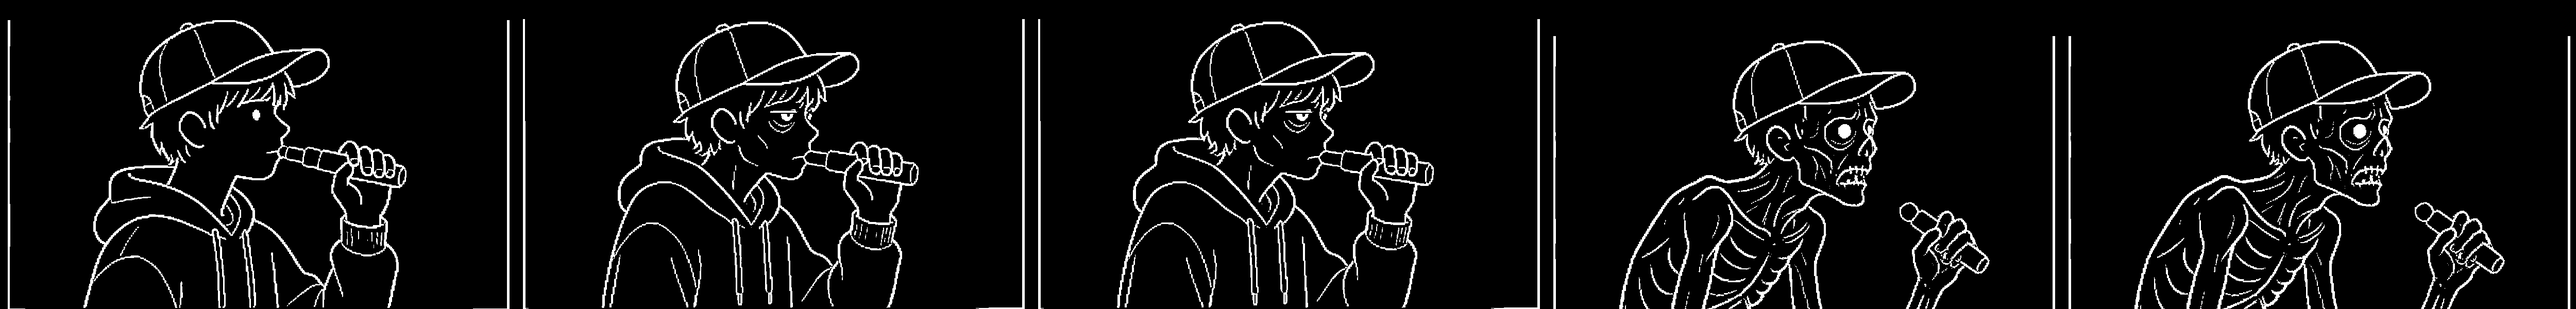
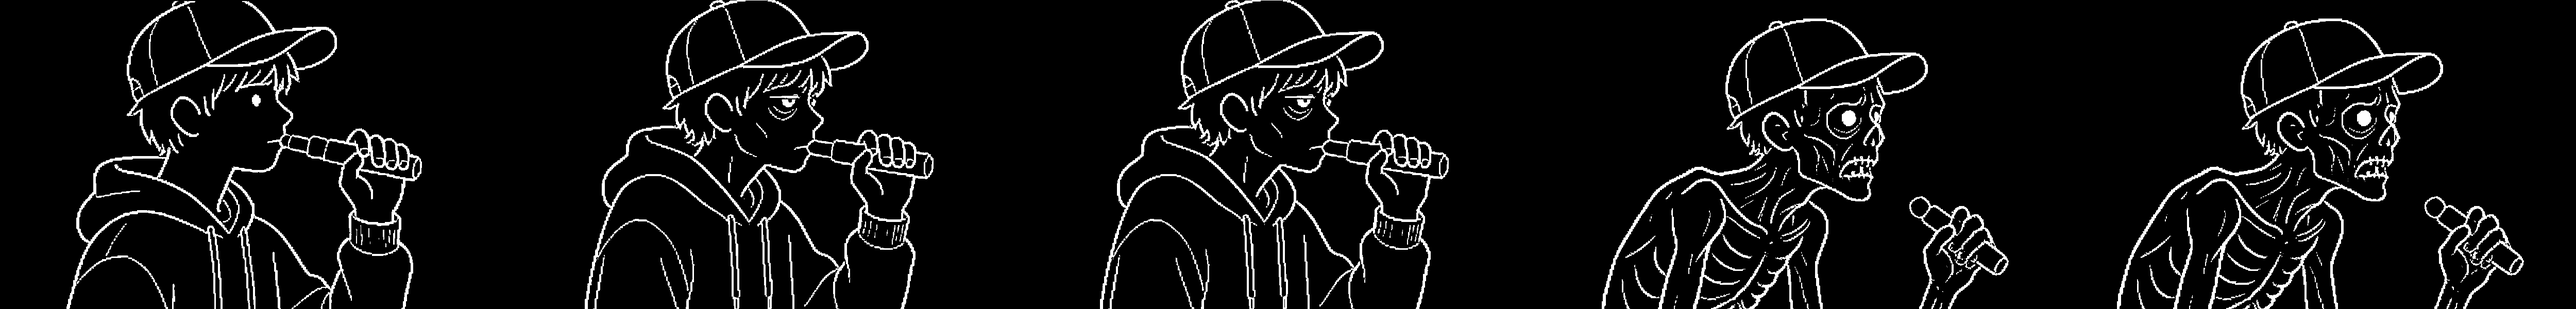
Page 4 placeholder strip: wider crop, no border lines

diff --git a/style.css b/style.css
@@ -104,7 +104,7 @@ img, .hero, #smoke, #fire, .part, #miners { image-rendering: pixelated; }
 #mine { width: 340px; }
 #me { width: 780px; }
 /* page 4 faces: 5 frames of 1000x600 in one strip. PLACEHOLDER_AI = Jimeng reference, to be redrawn by Yi Han in Piskel. */
-#years-hero { width: 600px; height: 360px; margin: 0 auto; background: url(img/years_sheet_5_PLACEHOLDER_AI.png?v=20261014s) no-repeat;
+#years-hero { width: 600px; height: 360px; margin: 0 auto; background: url(img/years_sheet_5_PLACEHOLDER_AI.png?v=20261014t) no-repeat;
   background-size: 500% 100%; background-position-x: calc(var(--f, 0) * 100% / 4); image-rendering: auto; }
 
 /* PLACEHOLDER box for the miners. When the sheet is drawn: give it a background like .hero and animate with steps(). */

diff --git a/index.html b/index.html
@@ -5,7 +5,7 @@
   <meta name="viewport" content="width=device-width, initial-scale=1">
   <title>Invisible Costs: a disposable vape</title>
   <link rel="icon" href="data:,">
-  <link rel="stylesheet" href="style.css?v=20261014s">
+  <link rel="stylesheet" href="style.css?v=20261014t">
 </head>
 <body>
   <!-- Four pages. The menu at the top opens one; opening a page always starts it fresh. -->
